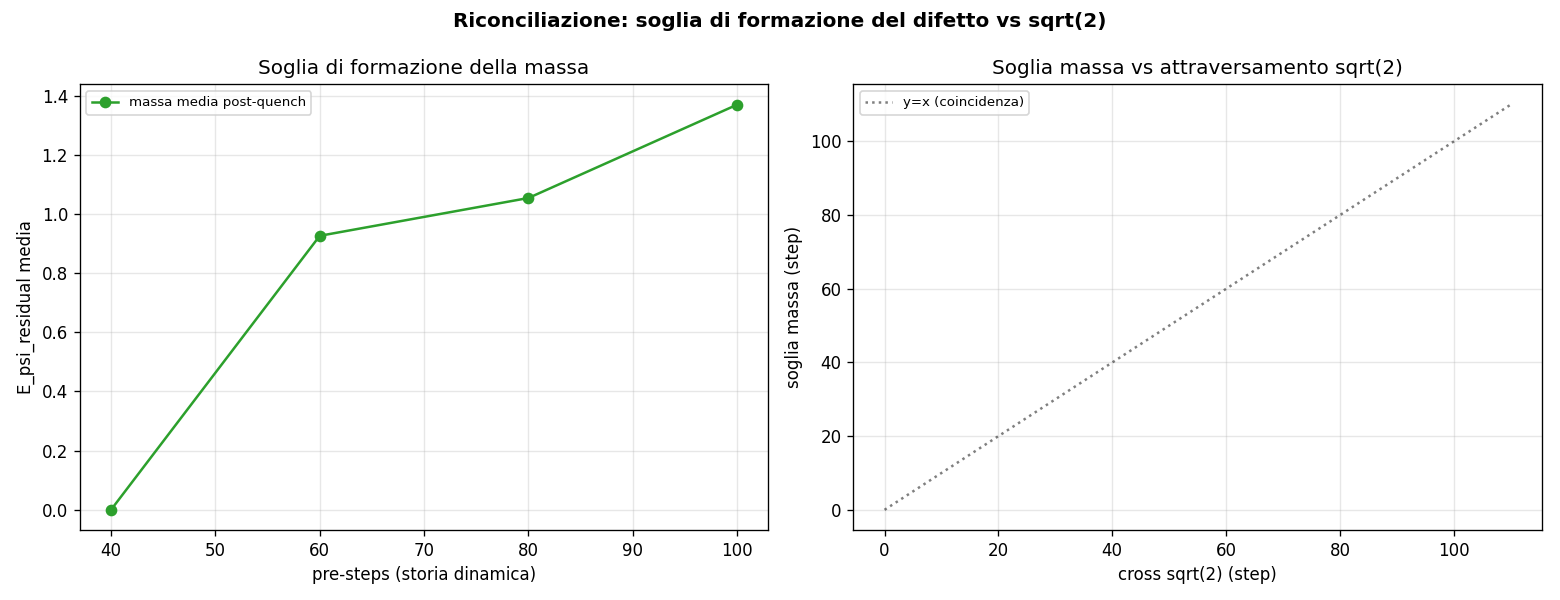
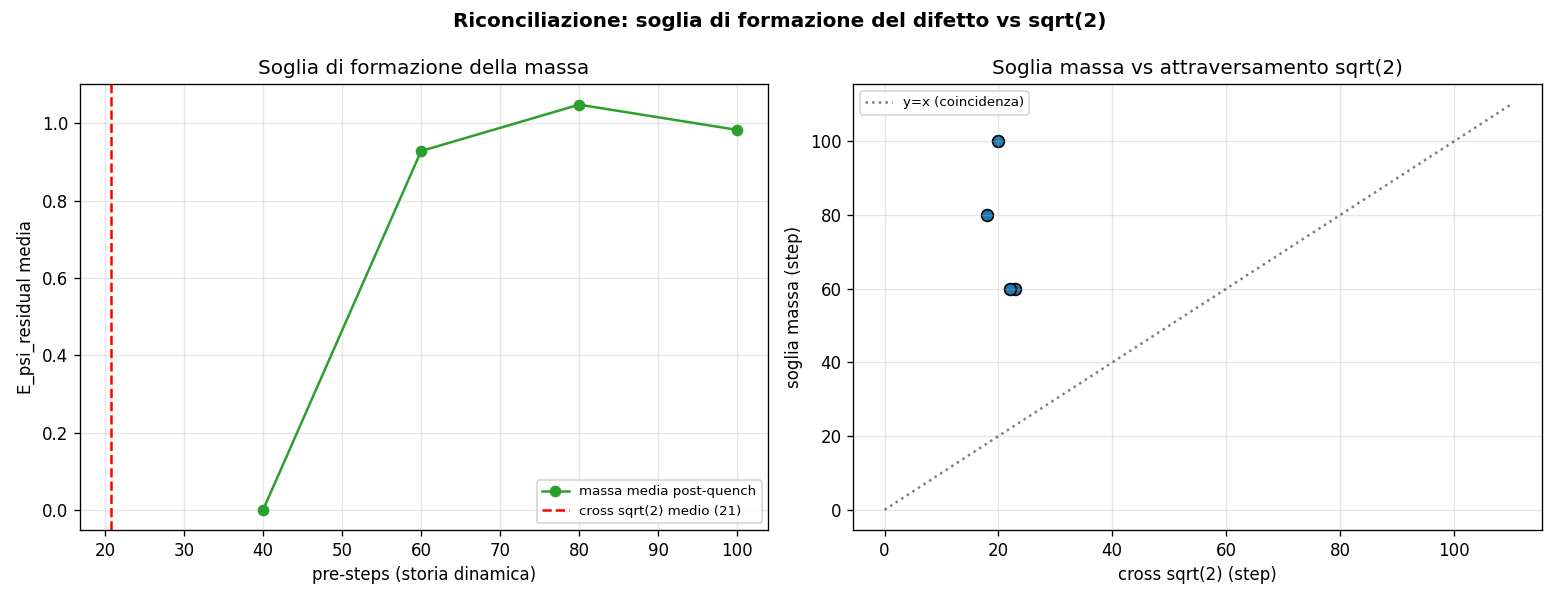
test(scala L2 valido): la struttura a due tempi SCALA — ritardo robusto ~50 step
Misura corretta sulle foglie. Confronto L1 vs L2:
  cross sqrt2:  13.6 (L1) -> 20.8 (L2)
  soglia massa: 64   (L1) -> 75   (L2)
  RITARDO:      +50.4 (L1) -> +54.2 (L2)   <-- robusto di scala
  correlazione: -0.92 (L1) -> -0.67 (L2)

ESITO: la struttura a due tempi (sqrt2 -> ~50 step -> congelamento massa) SCALA
da 24 a 576 nodi. Il ritardo di intrappolamento ~50 step e' una proprieta' DI
SCALA, non un effetto di L1. Quadro Kibble-Zurek rafforzato. Coincidenza sqrt2<->
massa resta falsificata (ritardo +54, non 0). Primo risultato di scala POSITIVO.

Caveat: 4 seed su L2; valori assoluti crescono col livello (da indagare). Il
ritardo e' il dato solido. Prossimo: L3 con misura foglie + piu' seed.

diff --git a/docs/peano/MIGRAZIONE_CHECKPOINT.md b/docs/peano/MIGRAZIONE_CHECKPOINT.md
@@ -62,9 +62,28 @@ di una configurazione solitonica. Velocity-quench -> KE->0 -> E_psi_anchored res
      comunque (a livello piu' profondo, frustrazione interna/inter-L1).
    Script: test_soglia_formazione.py --level 2 ; figures/soglia_formazione_L2.png
 
-2b. **[PROSSIMO] Rifare la misura sulle FOGLIE**: tracciare chi_max e E_psi sui
-   24^L segmenti foglia (non sulle medie del root) per un confronto cross<->soglia
-   valido a L2/L3. Aggiungere chi_max_leaves() e una E_psi sulle foglie.
+2b. [FATTO 2026-06-03] Misura corretta sulle FOGLIE (chi_max ricorsivo sui
+   segmenti, non medie del root). Test di scala VALIDO L1 vs L2:
+
+   | metrica       | L1 (24)    | L2 (576)   |
+   |---------------|------------|------------|
+   | cross sqrt2   | 13.6 +-2.0 | 20.8 +-1.9 |
+   | soglia massa  | 64 +-8     | 75 +-17    |
+   | RITARDO       | +50.4      | +54.2      |
+   | correlazione  | -0.92      | -0.67      |
+
+   ESITO: LA STRUTTURA A DUE TEMPI SCALA. Il RITARDO caratteristico (+50 -> +54)
+   e' robusto da 24 a 576 nodi = firma fisica del processo a due stadi. La
+   correlazione negativa tiene. L'ipotesi di coincidenza sqrt2<->massa resta
+   falsificata anche a L2 (ritardo +54, non 0).
+   Quadro Kibble-Zurek RAFFORZATO: sqrt(2) prerequisito -> ~50 step di
+   esplorazione frustrata -> congelamento del difetto (massa). Il tempo di
+   intrappolamento ~50 step e' una proprieta' DI SCALA, non un effetto di L1.
+   Caveat: 4 seed su L2; i valori assoluti crescono col livello (da indagare se
+   scaling fisico o di taglia); il ritardo e' il dato solido.
+   Script: test_soglia_formazione.py --level {1,2} ; figures/soglia_formazione_L{1,2}.png
+
+   PROSSIMO: confermare il ritardo su L3 (con misura foglie) + piu' seed a L2.
 3. **Caratterizzare la cicatrice**: localizzazione (IPR), struttura icosaedrica 5-fold?
 4. **L3** con obiettivo nuovo: spettro di masse dei difetti su larga scala.
 5. **Interazione** tra difetti (energia di legame tra cicatrici).
